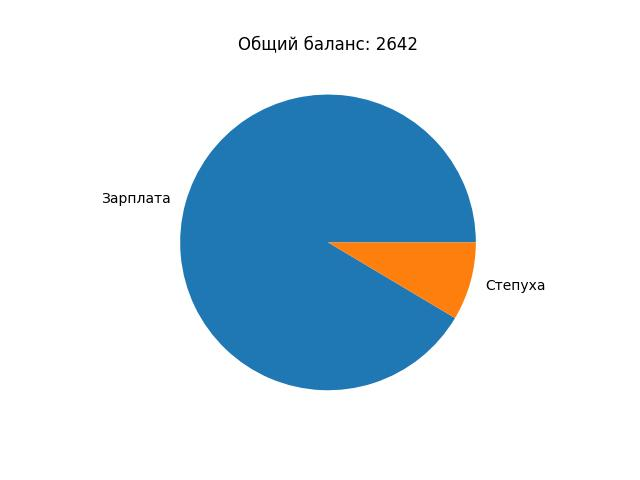
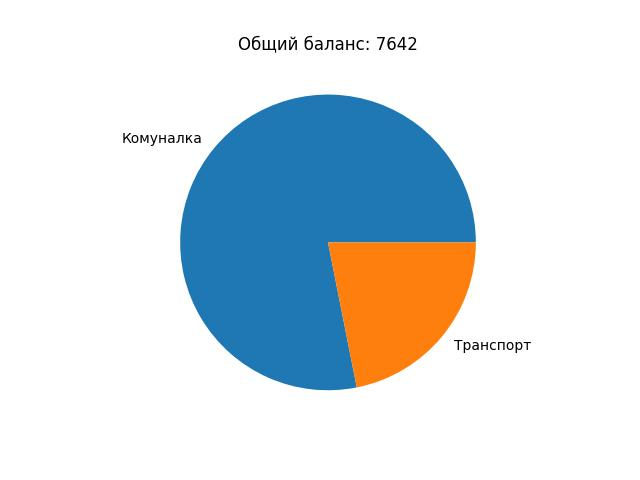
working graph income

diff --git a/button_functions.py b/button_functions.py
@@ -26,6 +26,8 @@ def on_click_show():
 	window.hide()
 	window_tool.hide()
 	on_click_calendar()
+	scene = QtWidgets.QGraphicsScene()
+	form_all.graphic.setScene(scene)
 	window_all.show()
 
 	print("You clicked Show Alllll")
@@ -55,6 +57,9 @@ def on_click_purchase():
 
 	form.item_list.show()
 	form.income_list.hide()
+
+	form.enter_purchase_button.setText('Добавить покупку')
+
 	form.label_3.clear()
 	form.label_3.setText('Выберите тип покупки и карту')
 
@@ -246,7 +251,6 @@ def on_click_calendar():
 			form_all.textEdit.append(f'{t}:')
 			print(len(data[data['type']== t]))
 			for i in range(len(data[data['type']== t])):
-				print(i)
 				form_all.textEdit.append(f"{list(data[data['type']== t]['card'])[i]}: {list(data[data['type']== t]['amount'])[i]} руб.")
 	 
 	print("You clicked Calendar")
@@ -255,10 +259,6 @@ def on_click_calendar():
 #--------------------------------------нажатие на на кнопку "Доходы" -
 def on_click_graph_inc():
 
-	size_s = str(form_all.graphic.size())
-	coef = min(int(size_s[-4:-1]), int(size_s[-9:-6]))/ max(int(size_s[-4:-1]), int(size_s[-9:-6]))
-	
-
 	#заглядываем в базу данных
 	file = pd.read_csv('my_by.csv')
 	data = file[file['type'] == '0'][file['m'] == form_all.calendarWidget.selectedDate().month()]
@@ -266,12 +266,7 @@ def on_click_graph_inc():
 	data = data.groupby(['income']).sum()
 	
 	data.plot.pie(y = 'amount', ylabel = '', title = f'Общий баланс: {file[file["m"] == form_all.calendarWidget.selectedDate().month()]["amount"].sum()}', legend = False, ).get_figure().savefig('test.jpg')
-	# img = data.plot.pie(y = '', ylabel = '', legend = False).get_figure().savefig('test.jpg')
 	
-	# pix = QPixmap('test.jpg')
-	# item = QtWidgets.QGraphicsPixmapItem(pix)
-	# form_all.graphic.setScene(QtWidgets.QGraphicsScene().addItem(item))	
-
 	
 	scene = QtWidgets.QGraphicsScene()
 	pixmap = QPixmap('test.jpg')
@@ -294,7 +289,28 @@ def on_click_graph_purch():
 	#заглядываем в базу данных
 	file = pd.read_csv('my_by.csv')
 	
-	data = file[file['date'] == form_all.calendarWidget.selectedDate().toString('yyyy MM dd')]
+	#заглядываем в базу данных
+	file = pd.read_csv('my_by.csv')
+	data = file[file['income'] == '0'][file['m'] == form_all.calendarWidget.selectedDate().month()]
+	data['amount'] = data['amount'].apply(lambda x: -x)
+	print(f'data:\n{data}')
+	data = data.groupby(['type']).sum()
+	
+	data.plot.pie(y = 'amount', ylabel = '', title = f'Общий баланс: {file[file["m"] == form_all.calendarWidget.selectedDate().month()]["amount"].sum()}', legend = False, ).get_figure().savefig('test.jpg')
+	
+	
+	scene = QtWidgets.QGraphicsScene()
+	pixmap = QPixmap('test.jpg')
+	print(pixmap.size())
+	coef = int(str(pixmap.size())[-4:-1])/ int(str(pixmap.size())[-9:-6])
+	pixmap = pixmap.scaled(coef*int(str(pixmap.size())[-9:-6]), coef*int(str(pixmap.size())[-4:-1]), QtCore.Qt.KeepAspectRatio)
+	item = QtWidgets.QGraphicsPixmapItem(pixmap)
+	scene.addItem(item)
+	form_all.graphic.setScene(scene)
+  
+  	
+
+	form_all.graphic.show()
 
 
 		 

diff --git a/main.py b/main.py
@@ -30,6 +30,7 @@ form_all.add_purchase_button.clicked.connect(on_click_purchase)
 form_all.calendarWidget.clicked.connect(on_click_calendar)
 form_all.toolButton.clicked.connect(on_click_tool)
 form_all.graph_income_button.clicked.connect(on_click_graph_inc)
+form_all.graph_purchase_button.clicked.connect(on_click_graph_purch)
 
 #-------------------------------------------действия в окне настроек
 form_tool.show_all_button.clicked.connect(on_click_show)
